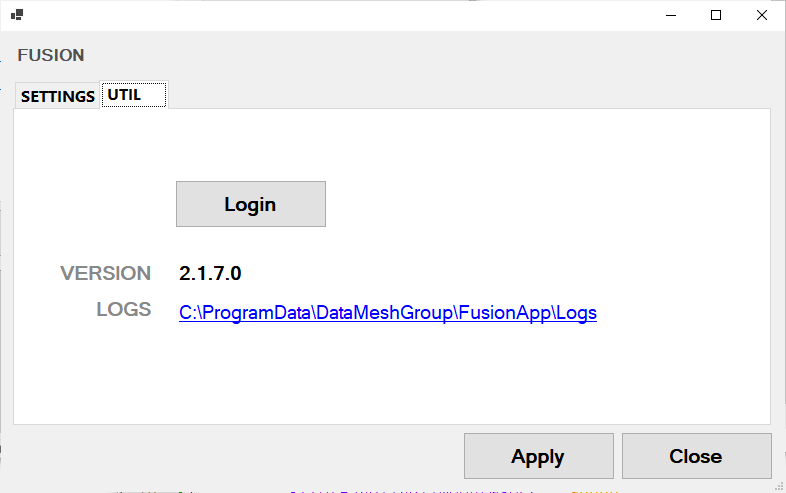
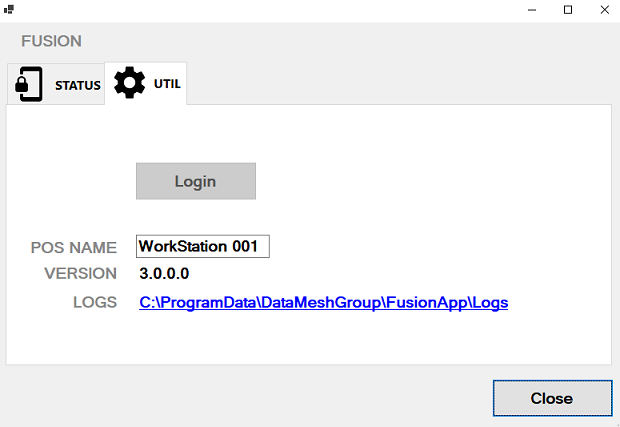
Updated doc to include QR POS Pairing information.

diff --git a/docs/api-reference/fusion-cloud.md b/docs/api-reference/fusion-cloud.md
@@ -162,6 +162,7 @@ Attribute                             |Requ.| Format | Description |
 [ServiceID](/docs/api-reference/data-model#serviceid)               | ✔ | String | A unique value which will be mirrored in the response. See [ServiceID](/docs/api-reference/data-model#serviceid).
 [SaleID](/docs/api-reference/data-model#saleid)                     | ✔ | String | Uniquely identifies the Sale System. The [SaleID](/docs/api-reference/data-model#saleid) is provided by DataMesh, and must match the SaleID configured in Unify.
 [POIID](/docs/api-reference/data-model#poiid)                       | ✔ | String | Uniquely identifies the POI Terminal. The [POIID](/docs/api-reference/data-model#poiid) is provided by DataMesh, and must match the POIID configured in Unify. For Sale Systems that do not need a POI Terminal, the value must be "POI Server"
+| |  |  | Only in the Login request after a successful [QR POS Pairing](/docs/getting-started.mdx/#qr-pos-pairing), this field will contain the PairingPOIID value from the [pairing QR code data](/docs/getting-started#pairing-qr-code)
 
  
 ### Payload
@@ -357,7 +358,8 @@ sending another NEXO Login request.
          "OperatorLanguage":"en",
          "OperatorID":"xxx",
          "ShiftNumber":"xxx",
-         "POISerialNumber":"xxx"
+         "POISerialNumber":"xxx",
+         "Pairing": "true or false"
       },
       "SecurityTrailer":{...}
    }
@@ -377,6 +379,7 @@ Attribute  |Requ.| Format | Description |
 [ServiceID](/docs/api-reference/data-model#serviceid)                   | ✔ | String | A unique value which will be mirrored in the response. See [ServiceID](/docs/api-reference/data-model#serviceid).
 [SaleID](/docs/api-reference/data-model#saleid)                         | ✔ | String | Uniquely identifies the Sale System
 [POIID](/docs/api-reference/data-model#poiid)                           | ✔ | String | Uniquely identifies the POI Terminal
+| |  |  | Only in the Login request after a successful [QR POS Pairing](/docs/getting-started.mdx/#qr-pos-pairing), this field will contain the PairingPOIID value from the [pairing QR code data](/docs/getting-started#pairing-qr-code)
 
 **LoginRequest**
 
@@ -396,6 +399,7 @@ Attribute     |Requ.| Format | Description |
 [OperatorId](/docs/api-reference/data-model#operatorid)                     |  | String | Groups transactions under this operator id
 [ShiftNumber](/docs/api-reference/data-model#shiftnumber)                   |  | String | Groups transactions under this shift number
 [POISerialNumber](/docs/api-reference/data-model#poiserialnumber)           |  | String | The POISerialNumber from the last login response, or absent if this is the first login 
+Pairing           |  | Boolean| True if the POI ID in the MessageHeader is the PairingPOIID value from the [pairing QR code data](/docs/getting-started#pairing-qr-code) for the [QR POS Pairing](/docs/getting-started.mdx/#qr-pos-pairing)
 
 #### Login response
 

diff --git a/docs/api-reference/fusion-app.md b/docs/api-reference/fusion-app.md
@@ -27,19 +27,30 @@ In case of an error (timeout, system crash etc), the Sale System sends a HTTP GE
 
 ### Configure Fusion App
 
-- Launch Fusion App from the icon in the system tray. 
+- Launch Fusion App from the icon in the system tray.
 
   ![](/img/fusion-app-icon.png)
 
-- Configure Fusion App with the SaleID, POIID, and KEK provided by DataMesh and click _Apply_.
+- From version 3.0.0, the _Status_ tab displays the terminal pairing status.
+  - When the Fusion App is not yet paired with a terminal, you can pair it with a terminal by clicking on the _Pair with terminal_ button.  Doing this will launch the pairing dialog, which will ask you to scan a pairing QR Code using the DataMesh terminal.
 
-  ![](/img/fusion-app-settings.png)
+    ![](/img/fusion-app-settings-not-paired.png)
 
-- Fusion App will complete a login to validate the SaleID, POIID, and KEK.
+  - When the Fusion App has been paired with a terminal, the paired terminal's POI ID will be displayed.  You can unpair from the terminal by clicking on the _Unpair from terminal_ option.
+
+    ![](/img/fusion-app-settings-paired.png)
+
+- After pairing is successful, Fusion App will complete a login to validate the stored SaleID, POIID, and KEK.
 
   ![](/img/fusion-app-login.png)
 
-- The _Util_ tab will allow you to access log files and perform a login. DataMesh may ask for log files to diagnose issues during development. 
+- The _Util_ tab will allow you to:
+  - update the POS Name (which is used during [QR POS Pairing](/docs/getting-started.mdx/#qr-pos-pairing)).     
+    - If the Fusion App has been paired with a terminal _before_ the POS name was updated, you'll need to unpair from the terminal and then, pair with the terminal again to use the updated POS name.
+  - perform a login
+  - access log files 
+
+DataMesh may ask for log files to diagnose issues during development. 
 
   ![](/img/fusion-app-util.png)
 

diff --git a/docs/appendix.md b/docs/appendix.md
@@ -89,9 +89,31 @@ HostErrorCode        | [PaymentResult.PaymentAcquirerData.ResponseCode](/docs/ap
 TokenValue           | [PaymentResult.PaymentInstrumentData.PaymentToken.TokenValue](/docs/api-reference/data-model#tokenvalue) |  |
     
 
-
-
 ## Terminal configuration 
+
+### QR POS Pairing
+
+:::info
+To pair your Sale System through QR code, your Sale System must support QR code pairing and the Pair With POS option must be enabled on your Satellite payment app.
+If you are unable to see the  <code>Pair With POS</code> option on your Satellite payment app, please contact the DataMesh Integration Team at <a href="mailto:integrations@datameshgroup.com">integrations@datameshgroup.com</a>.
+:::
+
+- Launch your Sale System and access the option to display the QR Code for pairing
+- In the Satellite payment app, tap the settings icon (⚙)
+
+![](/img/pinpad-merchant-password-270x480.png)
+- Enter `0000` as the merchant password
+- Tap the `Pair With POS` option
+- Scan the pairing QR code displayed by your Sale System 
+- After the pairing QR code has been scanned, follow the instructions in the Satellite payment app
+
+![](/img/pair-with-pos-setting.png)
+
+- The Satellite payment app will display a message whether the pairing was successful or not
+- If pairing was successful, you'll need to continue the pairing process in the Sale System
+
+![](/img/pair-with-pos-successful.png)
+
 
 ### Enable access to the home screen
 

diff --git a/docs/api-reference/data-model.md b/docs/api-reference/data-model.md
@@ -40,7 +40,8 @@ The Sale System can pair with multiple POI terminals by sending multiple Login r
 		"OperatorLanguage": "en",
 		"OperatorID": "xxx",
 		"ShiftNumber": "xxx",
-		"POISerialNumber": "xxx"
+		"POISerialNumber": "xxx",
+		"Pairing": "true or false"
 	}
 }
 ```
@@ -63,6 +64,7 @@ Attribute |Requ.| Format | Description |
 [OperatorId](/docs/api-reference/data-model#operatorid)                     |  | String | Groups transactions under this operator id
 [ShiftNumber](/docs/api-reference/data-model#shiftnumber)                   |  | String | Groups transactions under this shift number
 [POISerialNumber](/docs/api-reference/data-model#poiserialnumber)           |  | String | The POISerialNumber from the last login response, or absent if this is the first login 
+Pairing           |  | Boolean| True if the POI ID in the MessageHeader is the PairingPOIID value from the [pairing QR code data](/docs/getting-started#pairing-qr-code) for the [QR POS Pairing](/docs/getting-started.mdx/#qr-pos-pairing)
 
 #### Login response
 
